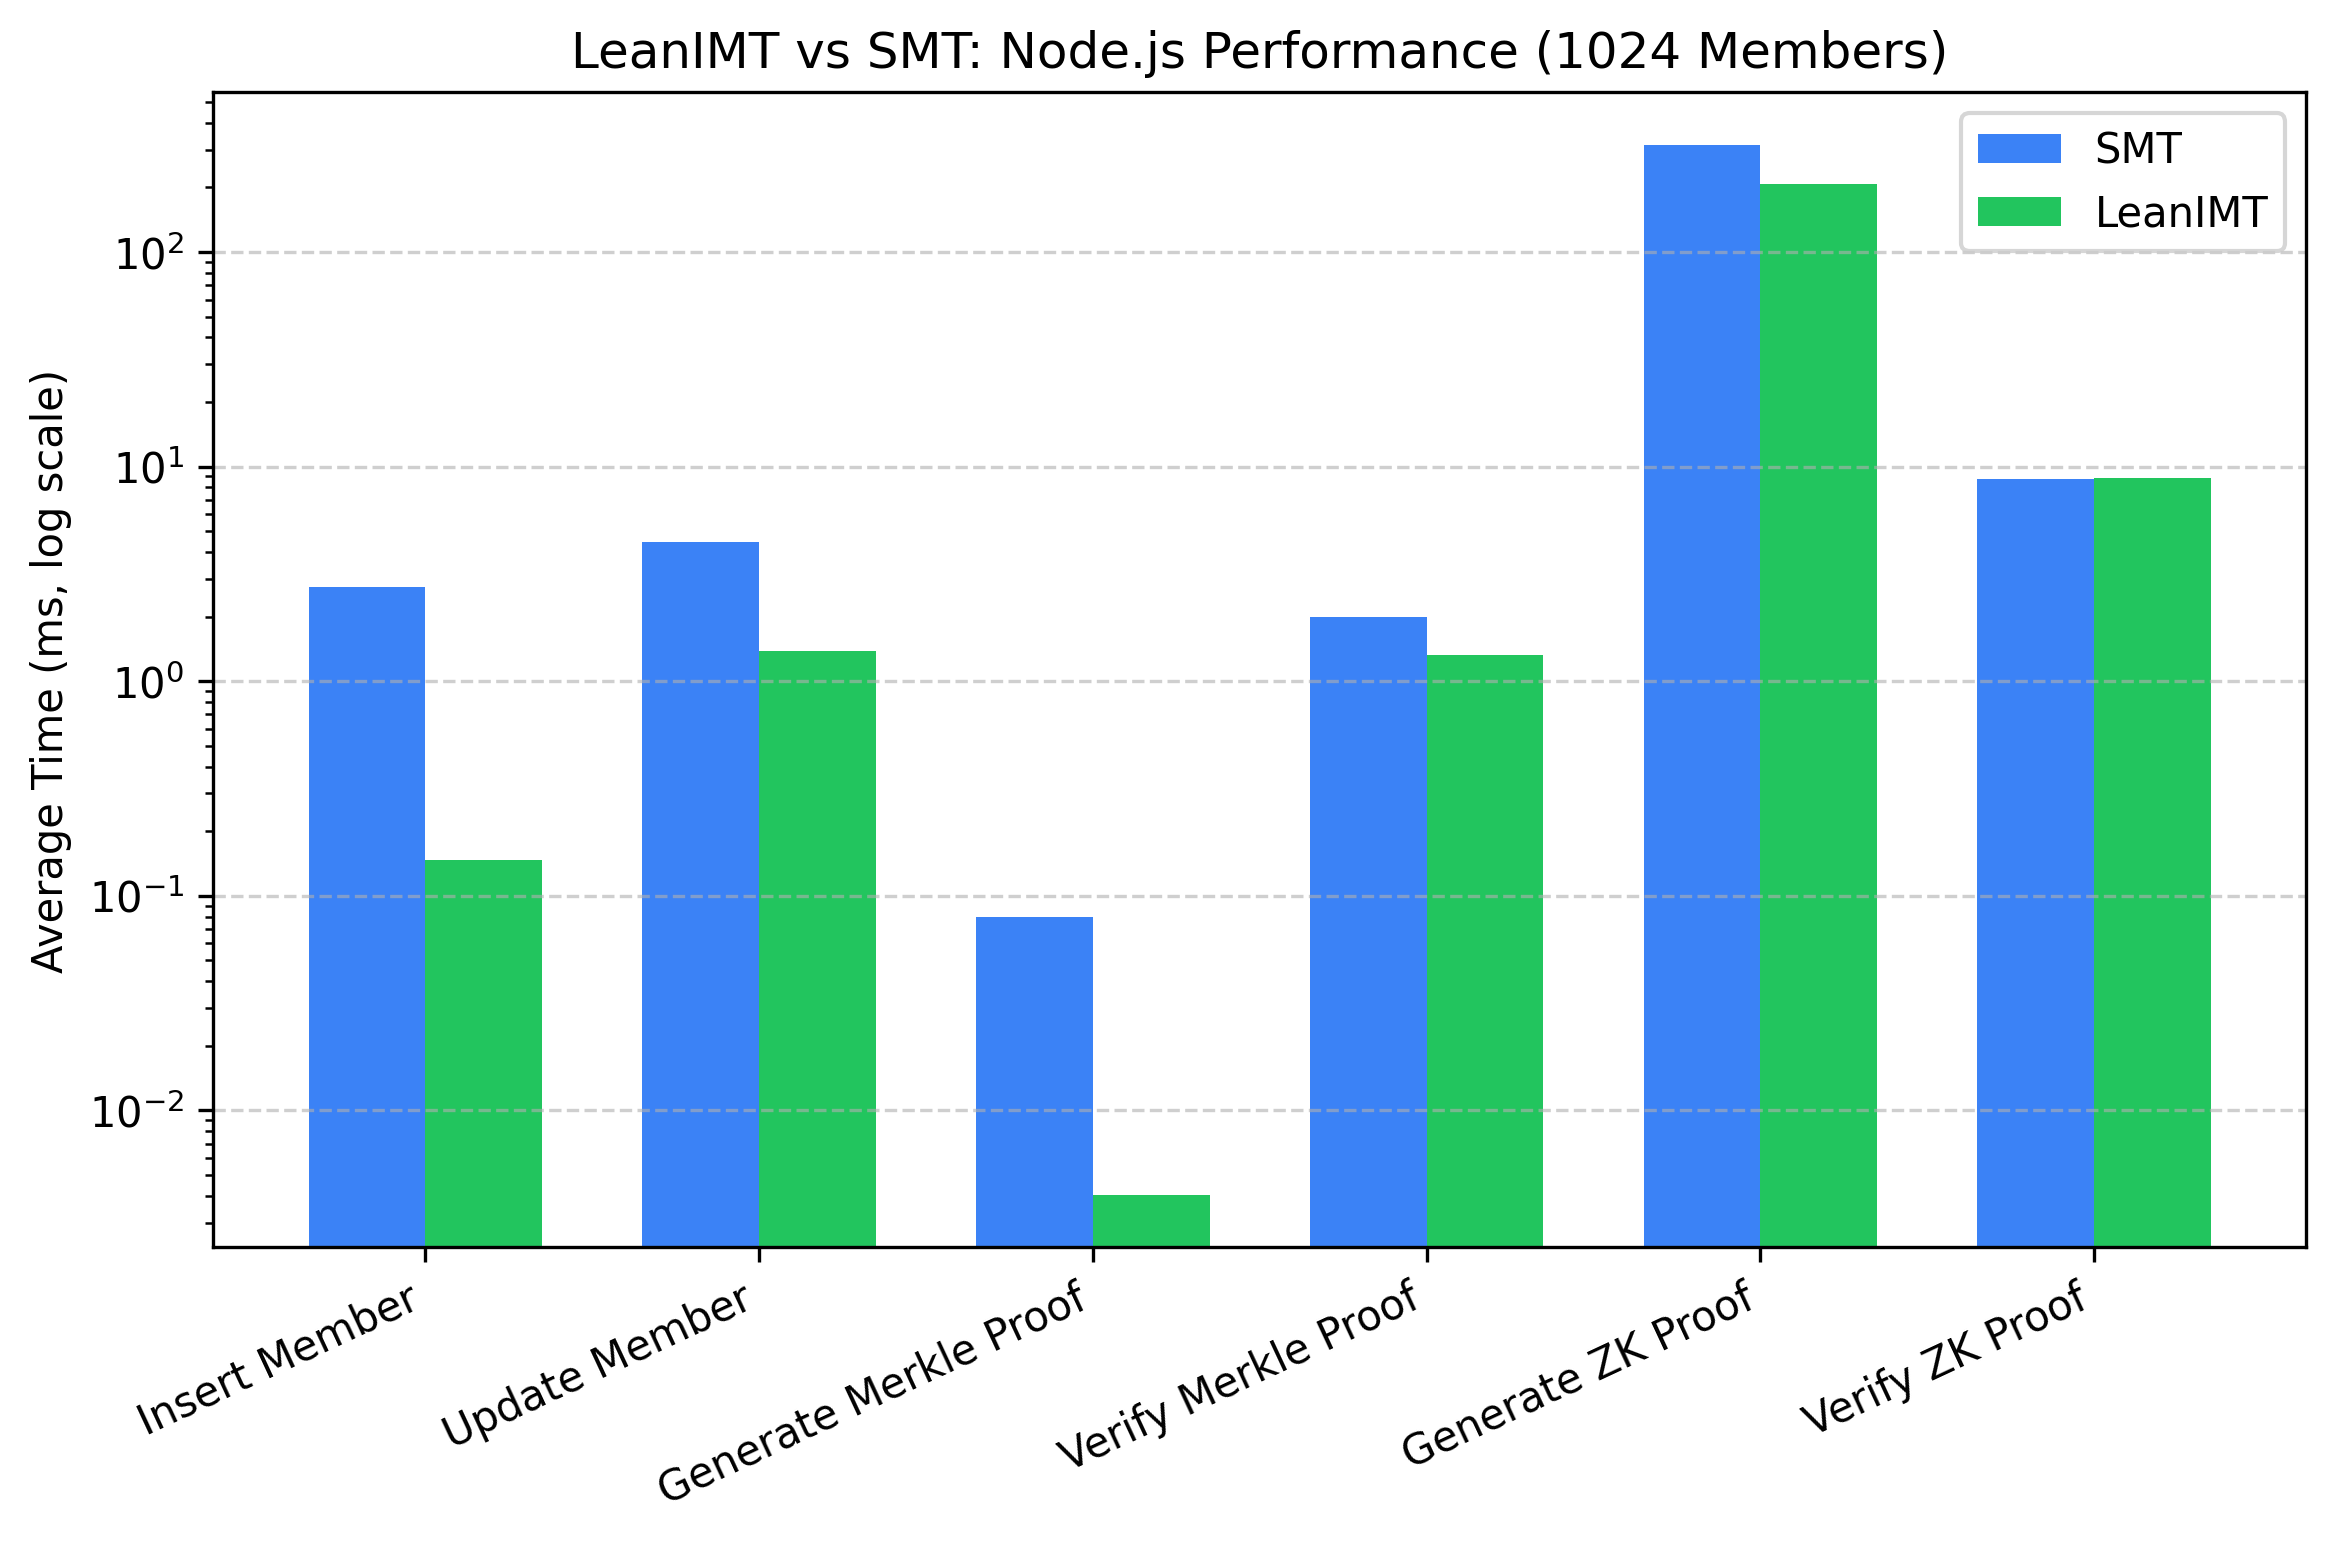
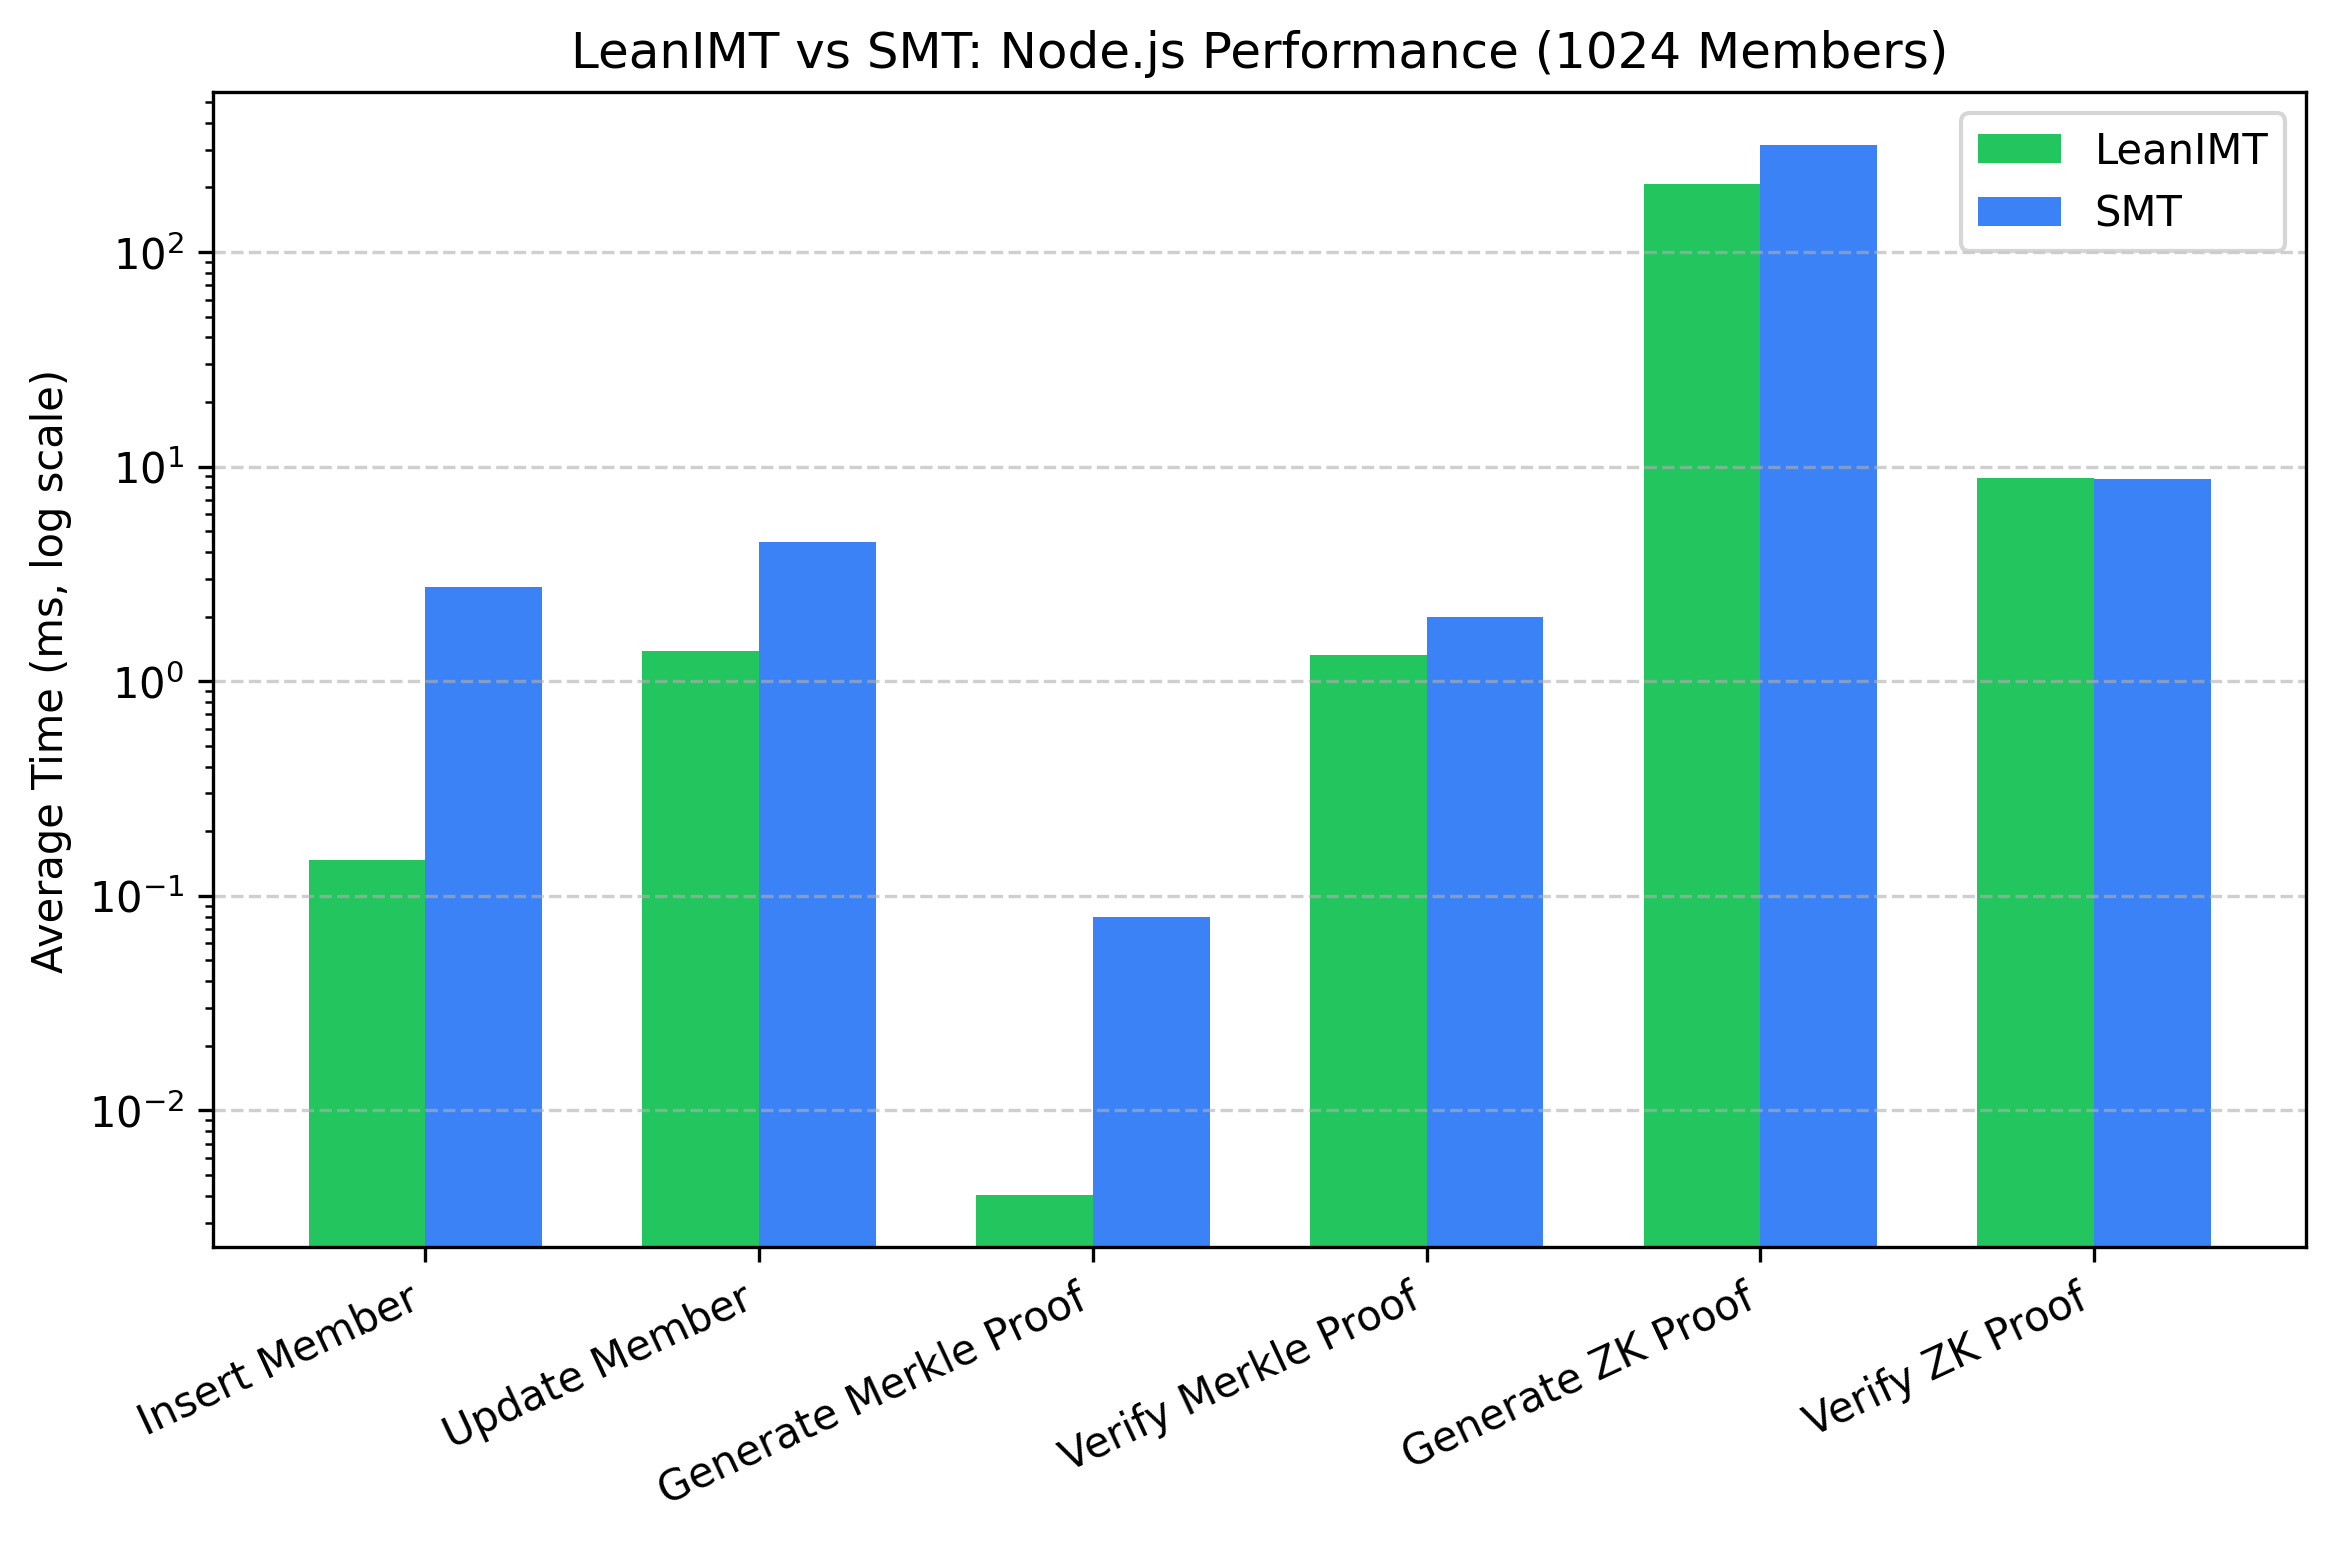
chore: update data structure order in chart

diff --git a/node/chart-scripts/node-performance.py b/node/chart-scripts/node-performance.py
@@ -14,8 +14,8 @@ plt.figure(figsize=(9, 5))
 bar_width = 0.35
 x = range(len(functions))
 
-plt.bar(x, smt_times, width=bar_width, label="SMT", color="#3b82f6")
-plt.bar([i + bar_width for i in x], leanimt_times, width=bar_width, label="LeanIMT", color="#22c55e")
+plt.bar(x, leanimt_times, width=bar_width, label="LeanIMT", color="#22c55e")
+plt.bar([i + bar_width for i in x], smt_times, width=bar_width, label="SMT", color="#3b82f6")
 
 # Logarithmic scale to show wide range of values
 plt.yscale("log")
